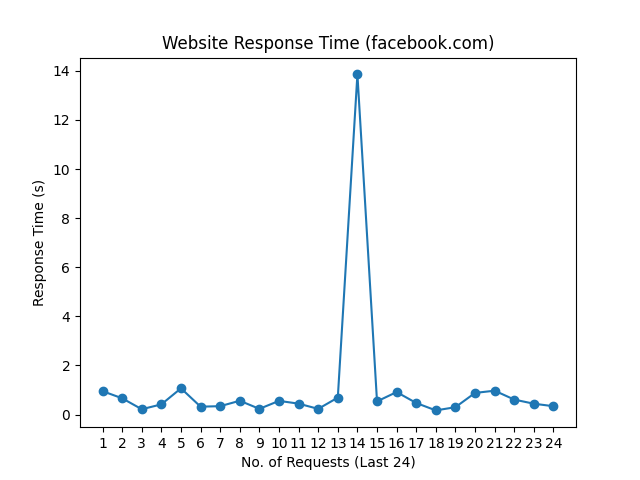
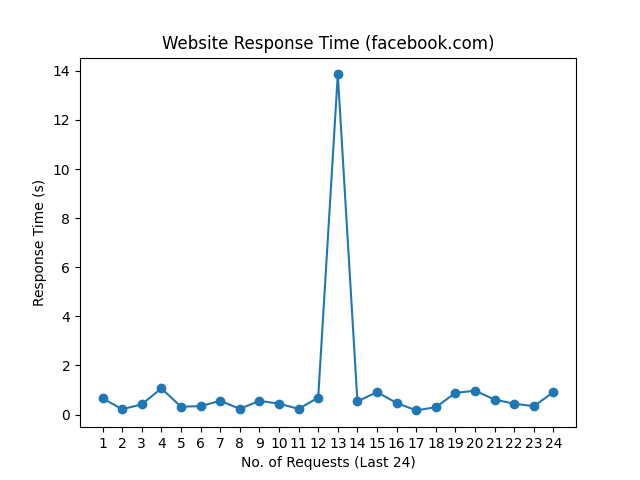
update README.md, history and graph

Changed region(s): [[0.1562, 0.125, 0.875, 0.875]]

diff --git a/README.md b/README.md
@@ -1,10 +1,10 @@
 # Web Monitoring
 
-Last Checked: 04/05/2025 08:25
+Last Checked: 05/05/2025 08:24
 
 | Website | Response Time (s) | Status | Avg Uptime (%) |
 |---------|-------------------|--------|----------------|
 | www.thiswebsiteisdown.net | 0 <br> <img src="graph/thiswebsiteisdown.net.png" alt="Graph" width="200" height="200">  | ❌ Down | 0.00 |
-| www.netflix.com | 0.623340 <br> <img src="graph/netflix.com.png" alt="Graph" width="200" height="200">  | ✅ Up | 99.69 |
-| www.google.com | 0.057027 <br> <img src="graph/google.com.png" alt="Graph" width="200" height="200">  | ✅ Up | 100.00 |
-| www.facebook.com | 0.340791 <br> <img src="graph/facebook.com.png" alt="Graph" width="200" height="200">  | ✅ Up | 100.00 |
+| www.netflix.com | 1.250816 <br> <img src="graph/netflix.com.png" alt="Graph" width="200" height="200">  | ✅ Up | 99.69 |
+| www.google.com | 0.073555 <br> <img src="graph/google.com.png" alt="Graph" width="200" height="200">  | ✅ Up | 100.00 |
+| www.facebook.com | 0.916141 <br> <img src="graph/facebook.com.png" alt="Graph" width="200" height="200">  | ✅ Up | 100.00 |
